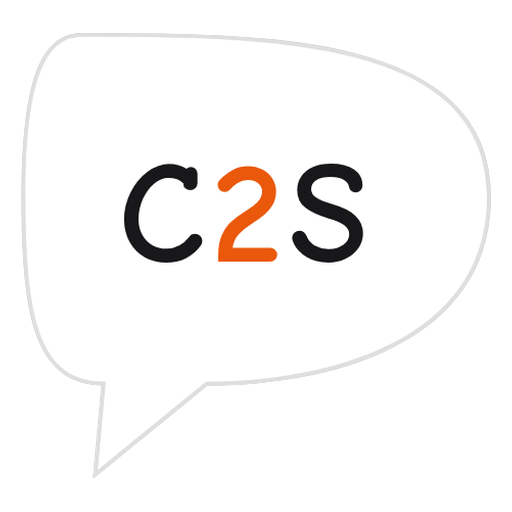
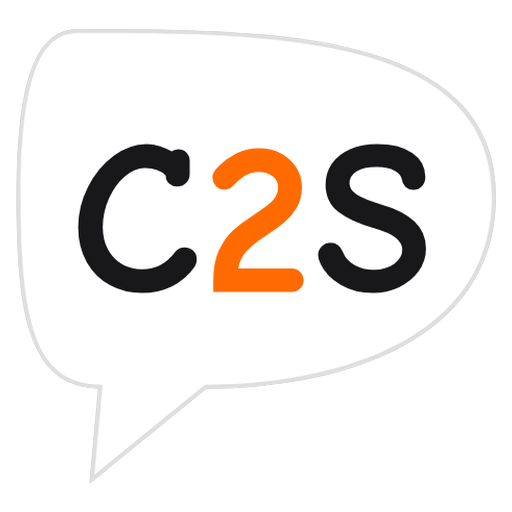
feat(ui): standardize authentication pages with AuthPageShell and refine brand marks
- Extract reusable AuthPageShell with unified navigation, header, and footer

- Apply AuthPageShell across forgot-password, resend-verification, reset-password, and invite pages

- Refine SVG stroke contrast and update icon sizes across Navbar, PublicHeader, and PublicFooter

diff --git a/app/resend-verification/page.tsx b/app/resend-verification/page.tsx
@@ -7,6 +7,7 @@ import { Button } from "@/components/ui/Button";
 import { Input } from "@/components/ui/Input";
 import { ArrowRight, ArrowLeft } from "lucide-react";
 import { BrandLogo } from "@/components/brand/BrandLogo";
+import { AuthPageShell } from "@/components/auth/AuthPageShell";
 
 import { Suspense } from "react";
 import { AuthToastWatcher } from "@/components/auth/AuthToastWatcher";
@@ -23,57 +24,59 @@ export default function ResendVerificationPage() {
   };
 
   return (
-    <div className="min-h-screen bg-zinc-50 flex items-center justify-center p-4">
+    <AuthPageShell>
       <Suspense fallback={null}>
         <AuthToastWatcher />
       </Suspense>
 
-      <div className="w-full max-w-sm bg-white border border-zinc-200 rounded-3xl p-8 shadow-xs">
-        <div className="flex items-center gap-2 mb-6">
-          <BrandLogo variant="icon" size={32} priority ariaHidden />
-          <span className="font-semibold text-zinc-900 text-base tracking-tight">
-            Chat2Sell
-          </span>
-        </div>
+      <Link
+        href="/"
+        className="inline-flex items-center gap-2 mb-6 group select-none"
+        title="Chat2Sell Home"
+      >
+        <BrandLogo variant="icon" size={36} priority ariaHidden className="group-hover:opacity-90 transition-opacity" />
+        <span className="font-semibold text-zinc-900 text-base tracking-tight group-hover:text-zinc-700 transition-colors">
+          Chat2Sell
+        </span>
+      </Link>
 
-        <h1 className="text-xl font-bold text-zinc-900 mb-1">Resend verification</h1>
-        <p className="text-xs text-zinc-500 mb-6">
-          Didn&apos;t receive your signup confirmation email? Enter your address to request a new link.
-        </p>
+      <h1 className="text-xl font-bold text-zinc-900 mb-1">Resend verification</h1>
+      <p className="text-xs text-zinc-500 mb-6">
+        Didn&apos;t receive your signup confirmation email? Enter your address to request a new link.
+      </p>
 
-        <form onSubmit={handleSubmit} className="flex flex-col gap-4">
-          <Input
-            id="email"
-            name="email"
-            type="email"
-            label="Email Address"
-            placeholder="name@company.com"
-            required
-            autoComplete="email"
-            disabled={isPending}
-          />
+      <form onSubmit={handleSubmit} className="flex flex-col gap-4">
+        <Input
+          id="email"
+          name="email"
+          type="email"
+          label="Email Address"
+          placeholder="name@company.com"
+          required
+          autoComplete="email"
+          disabled={isPending}
+        />
 
-          <Button
-            type="submit"
-            size="md"
-            className="w-full mt-2 font-semibold"
-            isLoading={isPending}
-            rightIcon={<ArrowRight className="w-4 h-4" />}
-          >
-            {isPending ? "Sending email..." : "Resend Verification Link"}
-          </Button>
-        </form>
+        <Button
+          type="submit"
+          size="md"
+          className="w-full mt-2 font-semibold"
+          isLoading={isPending}
+          rightIcon={<ArrowRight className="w-4 h-4" />}
+        >
+          {isPending ? "Sending email..." : "Resend Verification Link"}
+        </Button>
+      </form>
 
-        <div className="mt-6 text-center">
-          <Link
-            href="/login"
-            className="inline-flex items-center gap-1.5 text-xs font-semibold text-zinc-600 hover:text-zinc-900 transition-colors"
-          >
-            <ArrowLeft className="w-3.5 h-3.5" />
-            Back to sign in
-          </Link>
-        </div>
+      <div className="mt-6 text-center">
+        <Link
+          href="/login"
+          className="inline-flex items-center gap-1.5 text-xs font-semibold text-zinc-600 hover:text-zinc-900 transition-colors"
+        >
+          <ArrowLeft className="w-3.5 h-3.5" />
+          Back to sign in
+        </Link>
       </div>
-    </div>
+    </AuthPageShell>
   );
 }

diff --git a/app/forgot-password/page.tsx b/app/forgot-password/page.tsx
@@ -7,6 +7,7 @@ import { Button } from "@/components/ui/Button";
 import { Input } from "@/components/ui/Input";
 import { ArrowRight, ArrowLeft } from "lucide-react";
 import { BrandLogo } from "@/components/brand/BrandLogo";
+import { AuthPageShell } from "@/components/auth/AuthPageShell";
 
 import { Suspense } from "react";
 import { AuthToastWatcher } from "@/components/auth/AuthToastWatcher";
@@ -23,57 +24,59 @@ export default function ForgotPasswordPage() {
   };
 
   return (
-    <div className="min-h-screen bg-zinc-50 flex items-center justify-center p-4">
+    <AuthPageShell>
       <Suspense fallback={null}>
         <AuthToastWatcher />
       </Suspense>
 
-      <div className="w-full max-w-sm bg-white border border-zinc-200 rounded-3xl p-8 shadow-xs">
-        <div className="flex items-center gap-2 mb-6">
-          <BrandLogo variant="icon" size={32} priority ariaHidden />
-          <span className="font-semibold text-zinc-900 text-base tracking-tight">
-            Chat2Sell
-          </span>
-        </div>
+      <Link
+        href="/"
+        className="inline-flex items-center gap-2 mb-6 group select-none"
+        title="Chat2Sell Home"
+      >
+        <BrandLogo variant="icon" size={36} priority ariaHidden className="group-hover:opacity-90 transition-opacity" />
+        <span className="font-semibold text-zinc-900 text-base tracking-tight group-hover:text-zinc-700 transition-colors">
+          Chat2Sell
+        </span>
+      </Link>
 
-        <h1 className="text-xl font-bold text-zinc-900 mb-1">Reset your password</h1>
-        <p className="text-xs text-zinc-500 mb-6">
-          Enter the email associated with your account and we&apos;ll send you a password recovery link.
-        </p>
+      <h1 className="text-xl font-bold text-zinc-900 mb-1">Reset your password</h1>
+      <p className="text-xs text-zinc-500 mb-6">
+        Enter the email associated with your account and we&apos;ll send you a password recovery link.
+      </p>
 
-        <form onSubmit={handleSubmit} className="flex flex-col gap-4">
-          <Input
-            id="email"
-            name="email"
-            type="email"
-            label="Email Address"
-            placeholder="name@company.com"
-            required
-            autoComplete="email"
-            disabled={isPending}
-          />
+      <form onSubmit={handleSubmit} className="flex flex-col gap-4">
+        <Input
+          id="email"
+          name="email"
+          type="email"
+          label="Email Address"
+          placeholder="name@company.com"
+          required
+          autoComplete="email"
+          disabled={isPending}
+        />
 
-          <Button
-            type="submit"
-            size="md"
-            className="w-full mt-2 font-semibold"
-            isLoading={isPending}
-            rightIcon={<ArrowRight className="w-4 h-4" />}
-          >
-            {isPending ? "Sending link..." : "Send Reset Link"}
-          </Button>
-        </form>
+        <Button
+          type="submit"
+          size="md"
+          className="w-full mt-2 font-semibold"
+          isLoading={isPending}
+          rightIcon={<ArrowRight className="w-4 h-4" />}
+        >
+          {isPending ? "Sending link..." : "Send Reset Link"}
+        </Button>
+      </form>
 
-        <div className="mt-6 text-center">
-          <Link
-            href="/login"
-            className="inline-flex items-center gap-1.5 text-xs font-semibold text-zinc-600 hover:text-zinc-900 transition-colors"
-          >
-            <ArrowLeft className="w-3.5 h-3.5" />
-            Back to sign in
-          </Link>
-        </div>
+      <div className="mt-6 text-center">
+        <Link
+          href="/login"
+          className="inline-flex items-center gap-1.5 text-xs font-semibold text-zinc-600 hover:text-zinc-900 transition-colors"
+        >
+          <ArrowLeft className="w-3.5 h-3.5" />
+          Back to sign in
+        </Link>
       </div>
-    </div>
+    </AuthPageShell>
   );
 }

diff --git a/app/reset-password/page.tsx b/app/reset-password/page.tsx
@@ -7,6 +7,7 @@ import { Button } from "@/components/ui/Button";
 import { Input } from "@/components/ui/Input";
 import { ArrowRight, ArrowLeft } from "lucide-react";
 import { BrandLogo } from "@/components/brand/BrandLogo";
+import { AuthPageShell } from "@/components/auth/AuthPageShell";
 import { Suspense } from "react";
 import { AuthToastWatcher } from "@/components/auth/AuthToastWatcher";
 import { PasswordRequirements } from "@/components/auth/PasswordRequirements";
@@ -42,20 +43,23 @@ export default function ResetPasswordPage() {
   };
 
   return (
-    <div className="min-h-screen bg-zinc-50 flex items-center justify-center p-4">
+    <AuthPageShell>
       <Suspense fallback={null}>
         <AuthToastWatcher />
       </Suspense>
 
-      <div className="w-full max-w-sm bg-white border border-zinc-200 rounded-3xl p-8 shadow-xs">
-        <div className="flex items-center gap-2 mb-6">
-          <BrandLogo variant="icon" size={32} priority ariaHidden />
-          <span className="font-semibold text-zinc-900 text-base tracking-tight">
-            Chat2Sell
-          </span>
-        </div>
+      <Link
+        href="/"
+        className="inline-flex items-center gap-2 mb-6 group select-none"
+        title="Chat2Sell Home"
+      >
+        <BrandLogo variant="icon" size={36} priority ariaHidden className="group-hover:opacity-90 transition-opacity" />
+        <span className="font-semibold text-zinc-900 text-base tracking-tight group-hover:text-zinc-700 transition-colors">
+          Chat2Sell
+        </span>
+      </Link>
 
-        <h1 className="text-xl font-bold text-zinc-900 mb-1">Set new password</h1>
+      <h1 className="text-xl font-bold text-zinc-900 mb-1">Set new password</h1>
         <p className="text-xs text-zinc-500 mb-6">
           Please enter your new password below (at least 8 characters with letters and numbers).
         </p>
@@ -119,7 +123,6 @@ export default function ResetPasswordPage() {
             Back to sign in
           </Link>
         </div>
-      </div>
-    </div>
+    </AuthPageShell>
   );
 }

diff --git a/components/auth/AuthPageShell.tsx b/components/auth/AuthPageShell.tsx
@@ -1,0 +1,50 @@
+import React from "react";
+import Link from "next/link";
+import { ArrowLeft } from "lucide-react";
+import { PublicHeader } from "@/components/layout/PublicHeader";
+import { PublicFooter } from "@/components/layout/PublicFooter";
+
+export interface AuthPageShellProps {
+  children?: React.ReactNode;
+  maxWidth?: "sm" | "md";
+  backHref?: string;
+  backLabel?: string;
+}
+
+export function AuthPageShell({
+  children,
+  maxWidth = "sm",
+  backHref = "/",
+  backLabel = "Back to home",
+}: AuthPageShellProps) {
+  const maxWidthClass = maxWidth === "md" ? "max-w-md" : "max-w-sm";
+
+  return (
+    <div className="min-h-full flex flex-col bg-zinc-50/60 overflow-y-auto">
+      {/* Top Public Header Navbar */}
+      <PublicHeader />
+
+      {/* Main Centered Content */}
+      <main className="flex-1 flex flex-col justify-center items-center px-4 py-10 sm:py-14">
+        <div className={`w-full ${maxWidthClass}`}>
+          {/* Back Navigation Link */}
+          <Link
+            href={backHref}
+            className="inline-flex items-center gap-1.5 text-xs font-medium text-zinc-500 hover:text-zinc-900 mb-4 transition-colors select-none"
+          >
+            <ArrowLeft className="w-3.5 h-3.5" />
+            <span>{backLabel}</span>
+          </Link>
+
+          {/* Centered Card */}
+          <div className="w-full bg-white border border-zinc-200 rounded-3xl p-8 shadow-xs">
+            {children}
+          </div>
+        </div>
+      </main>
+
+      {/* Public Footer */}
+      <PublicFooter />
+    </div>
+  );
+}

diff --git a/app/invite/[token]/page.tsx b/app/invite/[token]/page.tsx
@@ -18,6 +18,7 @@ import {
 } from "lucide-react";
 import { notify } from "@/lib/toast";
 import { logout } from "@/app/auth/actions";
+import { AuthPageShell } from "@/components/auth/AuthPageShell";
 
 interface InvitationDetails {
   id: string;
@@ -149,8 +150,7 @@ export default function InvitePage({ params }: PageProps) {
       invitation.email?.toLowerCase().trim();
 
   return (
-    <div className="min-h-screen bg-zinc-50 flex items-center justify-center p-4">
-      <div className="w-full max-w-md bg-white border border-zinc-200 rounded-3xl p-8 shadow-xs">
+    <AuthPageShell maxWidth="md">
         {/* Loading State */}
         {isLoading && (
           <div className="flex flex-col items-center justify-center py-12 gap-3 text-center">
@@ -376,7 +376,6 @@ export default function InvitePage({ params }: PageProps) {
             )}
           </div>
         )}
-      </div>
-    </div>
+    </AuthPageShell>
   );
 }

diff --git a/components/layout/PublicFooter.tsx b/components/layout/PublicFooter.tsx
@@ -14,7 +14,7 @@ export function PublicFooter() {
               href="/"
               className="flex items-center gap-2 font-bold text-zinc-900 text-sm tracking-tight"
             >
-              <BrandLogo variant="icon" size={28} className="shrink-0" ariaHidden />
+              <BrandLogo variant="icon" size={30} className="shrink-0" ariaHidden />
               <span>Chat2Sell</span>
             </Link>
             <p className="text-xs text-zinc-500 leading-relaxed">

diff --git a/components/layout/Navbar.tsx b/components/layout/Navbar.tsx
@@ -81,7 +81,7 @@ export function Navbar({
           }}
           className="flex items-center gap-2 select-none shrink-0 [&_svg]:shrink-0"
         >
-          <BrandLogo variant="icon" size={32} className="shrink-0" priority ariaHidden />
+          <BrandLogo variant="icon" size={36} className="shrink-0" priority ariaHidden />
           <span className="font-semibold text-zinc-900 text-sm tracking-tight hidden xs:inline">
             Chat2Sell
           </span>

diff --git a/components/layout/PublicHeader.tsx b/components/layout/PublicHeader.tsx
@@ -11,7 +11,7 @@ export function PublicHeader() {
           href="/"
           className="flex items-center gap-2.5 font-bold text-zinc-900 text-sm tracking-tight"
         >
-          <BrandLogo variant="icon" size={34} className="shrink-0" priority ariaHidden />
+          <BrandLogo variant="icon" size={40} className="shrink-0" priority ariaHidden />
           <span>Chat2Sell</span>
         </Link>
 
